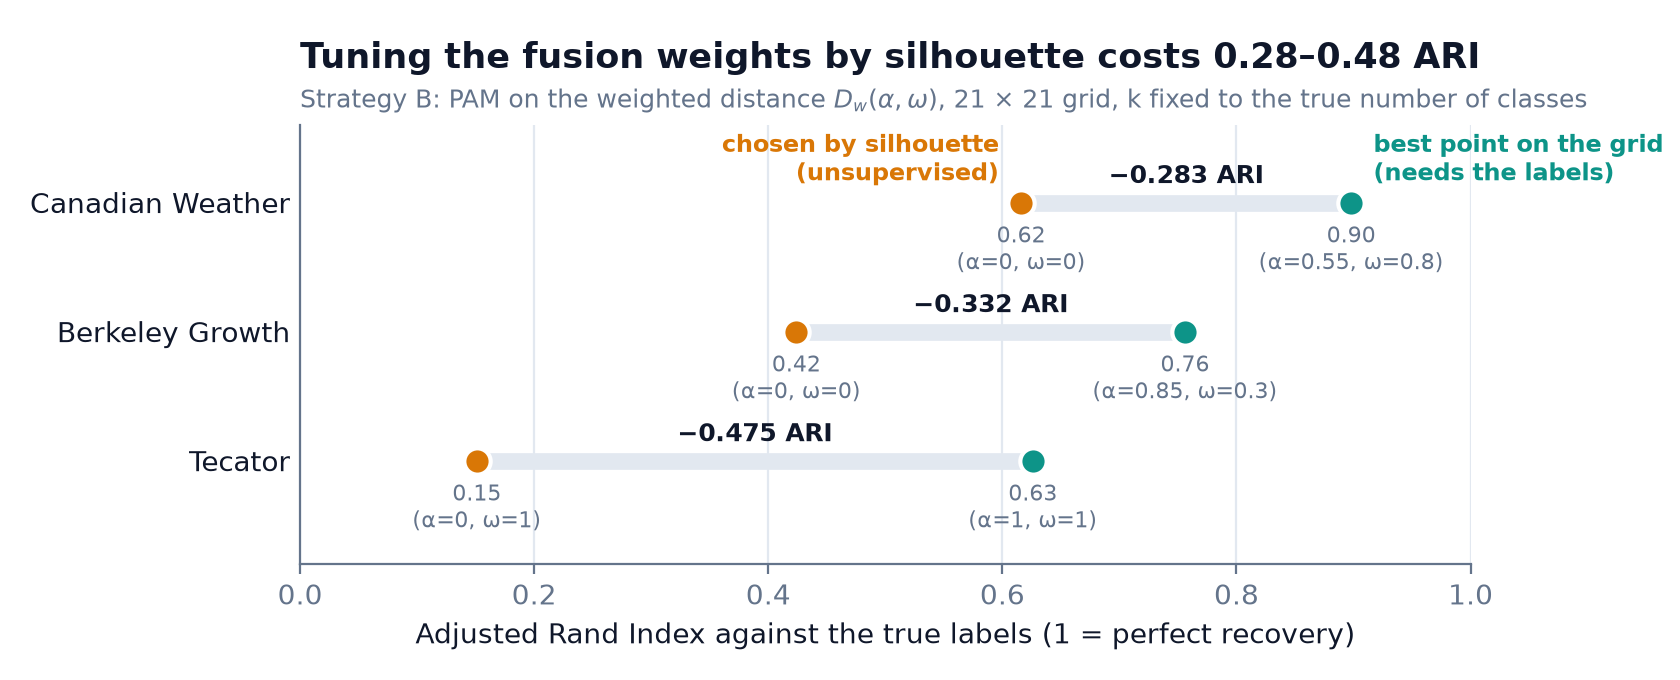
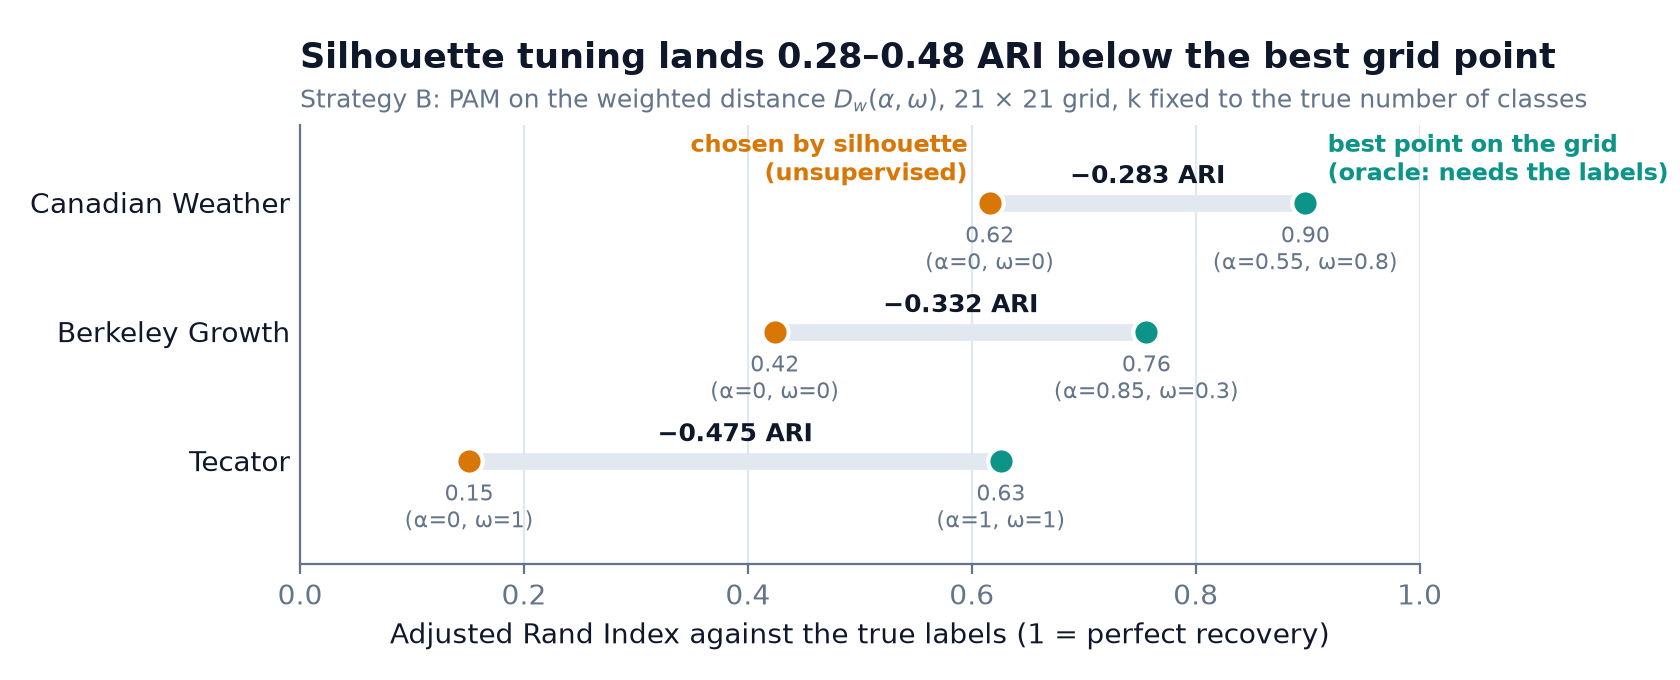
docs: state covariate leakage on all datasets, label the grid best as an oracle
Canadian Weather covariates include station coordinates, a proxy for the
climate-region label. The best-on-grid ARI is now described as a label-based
upper bound, silhouettes across distances as not comparable, and the
simulated instability design (6x6, B=60) as such. The untranslated grid
heatmap is dropped from the README since its grid values are not committed.

diff --git a/scripts/readme_figures.py b/scripts/readme_figures.py
@@ -247,7 +247,7 @@ def fig_hero(paradox: pd.DataFrame, path: Path) -> None:
     ax.text(
         0.0,
         1.13,
-        "Tuning the fusion weights by silhouette costs 0.28–0.48 ARI",
+        "Silhouette tuning lands 0.28–0.48 ARI below the best grid point",
         transform=ax.transAxes,
         fontsize=12.5,
         fontweight="bold",
@@ -264,7 +264,7 @@ def fig_hero(paradox: pd.DataFrame, path: Path) -> None:
     top = order.iloc[-1]
     for x, label, color, ha in (
         (top.sil_ari, "chosen by silhouette\n(unsupervised)", AMBER, "right"),
-        (top.best_ari, "best point on the grid\n(needs the labels)", TEAL, "left"),
+        (top.best_ari, "best point on the grid\n(oracle: needs the labels)", TEAL, "left"),
     ):
         ax.annotate(
             label,

diff --git a/README.md b/README.md
@@ -1,29 +1,29 @@
 # functional-data-clustering
 
 When every observation is a **curve plus a vector of covariates**, how should the two be fused
-to find clusters — and can the fusion be tuned without labels? Four fusion strategies against
-single-block baselines, on three public datasets and 200 simulated runs, with an honest answer:
-the geometry matters less than the tuning criterion, and silhouette is the wrong one.
+to find clusters, and can the fusion be tuned without labels? Four fusion strategies against
+single-block baselines, on three public datasets and 200 simulated runs, show that the tuning
+criterion matters more than the geometry, and that silhouette is the wrong one.
 
 [![ci](https://github.com/Pchambet/functional-data-clustering/actions/workflows/ci.yml/badge.svg)](https://github.com/Pchambet/functional-data-clustering/actions/workflows/ci.yml)
 ![R](https://img.shields.io/badge/R-4.x-276DC3)
 [![License: MIT](https://img.shields.io/badge/license-MIT-blue)](LICENSE)
-[![Thesis (PDF)](https://img.shields.io/badge/thesis-PDF%2C%2018%20pages-0d9488)](docs/rapport_stage.pdf)
+[![Report (PDF, French, 18 pages)](https://img.shields.io/badge/report-PDF%2C%20French%2C%2018%20pages-0d9488)](docs/rapport_stage.pdf)
 
 *Version française : [README.fr.md](README.fr.md).*
 
-![Silhouette-tuned versus best achievable ARI on three labelled datasets](docs/figures/hero_silhouette_gap.png)
+![Silhouette-tuned versus best-on-grid (oracle) ARI on three labelled datasets](docs/figures/hero_silhouette_gap.png)
 
 ## TL;DR
 
 - **Silhouette tuning is the bottleneck.** Choosing the curve/covariate weights (α, ω) of a
   weighted distance by silhouette lands on a single-modality corner on all three real datasets
-  and recovers far less of the true structure than the same grid allows:
+  and scores far below the best point of the same grid (an oracle that needs the labels):
   ARI 0.616 vs 0.898 (Canadian Weather), 0.424 vs 0.756 (Berkeley Growth),
   0.151 vs 0.626 (Tecator).
-- **No fusion geometry wins everywhere.** On real data the best ARI comes from the simplest
-  fusion, FPCA scores + covariates with k-means (0.748 Canadian Weather, 0.682 Berkeley Growth),
-  or from the covariates alone (0.546 Tecator).
+- **No fusion geometry wins everywhere.** On real data the best ARI among methods tuned without
+  labels comes from the simplest fusion, FPCA scores + covariates with k-means (0.748 Canadian
+  Weather, 0.682 Berkeley Growth), or from the covariates alone (0.546 Tecator).
 - **Simulation tells the same story** (4 scenarios × 50 seeds, n = 300, k = 3). A product of
   Gaussian kernels has the best overall mean ARI (0.651) and wins while the curves separate the
   classes (0.938 and 0.887 in S1–S2); when the curve signal is halved, FPCA + k-means wins S3
@@ -34,7 +34,8 @@ the geometry matters less than the tuning criterion, and silhouette is the wrong
   on real data.
 - **Bootstrap instability does not rescue k either.** `fpc::nselectboot` returns the true number
   of classes in 1 of 441 grid points on Canadian Weather and 4 of 441 on Tecator
-  (276 of 441 on Berkeley Growth, where k = 2).
+  (276 of 441 on Berkeley Growth, where k = 2, but k = 2 is also its most frequent answer on
+  the other two datasets: 223 of 441 on Canadian Weather, 382 of 441 on Tecator).
 
 ## Why it matters
 
@@ -51,7 +52,7 @@ blobs over the real structure.
 flowchart LR
   X["Curve X(t)"] --> S["B-spline smoothing<br/>λ by GCV"] --> F["FPCA<br/>95 % variance"]
   Z["Covariates Z"] --> N["Standardise"]
-  F --> G["Six fusion geometries"]
+  F --> G["Single-block baselines<br/>+ 4 fusions"]
   N --> G
   G --> C["PAM / k-means<br/>k = true number of classes"]
   C --> E["Silhouette: used for tuning<br/>ARI: used for evaluation only"]
@@ -72,14 +73,18 @@ flowchart LR
    cross-covariance block $V_{yx}$), curves reconstructed, then $D_K$.
 3. **Protocol.** Hyperparameters (α, ω) are chosen by mean silhouette on a 21 × 21 grid; the
    labels are used **only** to score the final partition with the Adjusted Rand Index. The
-   "best on grid" points in the hero figure are a counterfactual that needs the labels.
+   "best on grid" points in the hero figure are an oracle that needs the labels: the maximum ARI
+   over 441 configurations, which is an optimistic upper bound (on 35 stations, part of that
+   maximum is selection on noise).
 4. **Choosing k.** Separately, bootstrap instability (Fang & Wang, 2012) is mapped over the
-   same (α, ω) grid with B = 150 resamples and k ∈ {2, …, 6}.
+   same (α, ω) grid with B = 150 resamples and k ∈ {2, …, 6} (simulated data: a coarser
+   6 × 6 grid with B = 60).
 
 ## Results
 
 **Real data** — ARI against the true labels (silhouette in brackets), k fixed to the number of
-classes. Best ARI per dataset in bold.
+classes. Best ARI per dataset in bold. The derivative baseline $D_1$ is reported only in
+simulation; on real data it is the (α = 1, ω = 1) corner of B's grid.
 
 | Method | Canadian Weather (n = 35, k = 4) | Berkeley Growth (n = 93, k = 2) | Tecator (n = 215, k = 3) |
 |---|---|---|---|
@@ -102,12 +107,6 @@ Takeaway: the ranking depends on where the signal lives. Silhouette-tuned B (amb
 to a pure curve-distance corner (ω = 1, α ∈ {0, 1}) in every S1–S2 run and in 80 % of S3–S4
 runs, which is right in S1–S2 (0.873) and wrong once the covariates carry the signal (0.239 in S3).
 
-**The paradox on one dataset** — silhouette (left) and ARI (right) over the (α, ω) grid on
-Canadian Weather. The silhouette peaks at the covariates-only corner (×); the ARI plateau is
-in the mixed region.
-
-![Silhouette and ARI over the alpha-omega grid, Canadian Weather](figures/canadian_weather/fig05_gridsearch_2D.png)
-
 **Choosing k without labels** — share of the (α, ω) grid where `nselectboot` selects the true k.
 
 | Data | True k | Grid | True k selected |
@@ -115,7 +114,7 @@ in the mixed region.
 | Canadian Weather | 4 | 21 × 21, B = 150 | 1 / 441 |
 | Berkeley Growth | 2 | 21 × 21, B = 150 | 276 / 441 |
 | Tecator | 3 | 21 × 21, B = 150 | 4 / 441 |
-| Simulated S1 / S2 / S3 / S4 (seed 1) | 3 | 6 × 6, fast mode | 33 / 26 / 3 / 0 of 36 |
+| Simulated S1 / S2 / S3 / S4 (seed 1) | 3 | 6 × 6, B = 60 (fast mode) | 33 / 26 / 3 / 0 of 36 |
 
 Takeaway: on real data instability mostly picks k = 2 or the largest k tried (6); it finds the
 true k = 3 only when the simulated curves carry a strong signal.
@@ -133,10 +132,17 @@ ship with those packages, so there is nothing to download.
 make setup      # install / check packages, write docs/session_info.txt
 make pipeline   # three real datasets: figures/<dataset>/ and docs/exports/*.csv
 make exp03      # simulated benchmark, 4 scenarios x 50 seeds (long)
-make exp01      # bootstrap instability, 21 x 21 grid x B = 150 (long)
+make exp01      # bootstrap instability on the real datasets, 21 x 21 grid x B = 150 (long)
+make exp01-sim  # same on simulated S1-S4, seed 1, fast mode: 6 x 6 grid x B = 60
 make tables     # regenerate docs/generated/*.tex from the result CSVs
-make report     # compile the thesis and the stability report (LaTeX, latexmk)
+make report     # compile the project report and the stability report (LaTeX, latexmk)
 ```
+
+`make exp01-sim` reproduces the committed simulated rows of the instability table (the script
+estimates 15 to 25 minutes). The full
+simulated design (21 × 21, B = 150, several hours) is
+`Rscript experiments/01_instabilite/run_simulated_instabilite_only.R --full`; it overwrites
+`experiments/01_instabilite/results_simulated/` with a different design.
 
 The README figures and numbers are rebuilt from the committed CSVs without R
 (Python 3.12 via [uv](https://docs.astral.sh/uv/), a few seconds):
@@ -163,8 +169,9 @@ experiments/
   01_instabilite/         nselectboot over the (α, ω) grid, real and simulated data
   03_simulated_hybride/   simulated benchmark: protocol, results (CSV), detailed report
 scripts/                  LaTeX table generators (R) and README figures (Python)
-docs/                     thesis (rapport_stage.tex/.pdf), slides, generated tables, references
-figures/<dataset>/        figures written by the pipeline
+docs/                     project report (rapport_stage.tex/.pdf), slides, generated tables, references
+figures/<dataset>/        figures written by the pipeline (French labels; fig05 maps
+                          silhouette and ARI over B's (α, ω) grid)
 ```
 
 ## Methodology notes and limitations
@@ -175,18 +182,27 @@ figures/<dataset>/        figures written by the pipeline
 - **Small real datasets.** Canadian Weather has 35 stations, so a single misassigned station
   moves the ARI noticeably. The real-data table is one deterministic run per method, without
   resampling intervals.
-- **Covariates are not always independent of the label or of the curve.** On Tecator the
-  label is a binned fat content and the covariates are water and protein, which are
-  chemically tied to fat; this explains why the covariates alone win. On Berkeley Growth both
-  covariates (final height, total growth) are computed from the curve itself.
+- **On all three real datasets the covariates are tied to the label or to the curve.** On
+  Canadian Weather the label is a geographic climate region and two of the three covariates
+  are the station's latitude and longitude, so the covariates alone carry much of the label
+  (ARI 0.616 for $D_s$). On Tecator the label is a binned fat content and the covariates are
+  water and protein, which are chemically tied to fat; this explains why the covariates alone
+  win. On Berkeley Growth both covariates (final height, total growth) are computed from the
+  curve itself.
+- **Silhouettes from different distances are not on a common scale.** The silhouette of each
+  method is computed in its own space ($D_0$, $D_s$, $D_w$, $D_K$, the k-means feature space
+  of A), so comparing them across methods, or across corners of B's grid, is not comparing like
+  with like. This is one mechanism behind the paradox: single-block corners can simply have a
+  more favourable silhouette scale.
 - **Simulation is one generative model.** Conclusions on S1–S4 are conditional on the Fourier
   basis and the effect sizes of `Cas2_deriv`. The simulated `nselectboot` run uses a reduced
-  6 × 6 grid and a single seed.
+  6 × 6 grid, B = 60 and a single seed.
 - **Kernel bandwidths** use the median heuristic and are not tuned; a different choice could
   change the ranking of C and HFV.
-- **Reproducibility.** Package versions are not pinned (no `renv.lock`); `make setup` records
-  `sessionInfo()` in `docs/session_info.txt`. The thesis, the slides and code comments are in
-  French; the slides need the LaTeX `beamer` class.
+- **Reproducibility.** Package versions are not pinned (no `renv.lock`), and the R and package
+  versions behind the committed results were not recorded. `make setup` writes `sessionInfo()`
+  to `docs/session_info.txt`, which is meant to be committed with the next run. The report,
+  the slides and code comments are in French; the slides need the LaTeX `beamer` class.
 
 ## References
 
@@ -205,7 +221,7 @@ Full list with DOIs and dataset sources: [docs/biblio/README.md](docs/biblio/REA
 
 M2 TRIED research project ("projet long"), CNAM, CEDRIC lab (MSDMA team), 2026. Subject
 proposed and supervised by V. Audigier, F. Bouhadjera and N. Niang. The full write-up is the
-thesis in [`docs/rapport_stage.pdf`](docs/rapport_stage.pdf) (French).
+18-page project report in [`docs/rapport_stage.pdf`](docs/rapport_stage.pdf) (French).
 
 ---
 

diff --git a/README.fr.md b/README.fr.md
@@ -6,21 +6,22 @@ Classification non supervisée de données mixtes : chaque individu est décrit 
 **courbe** (partie fonctionnelle, dans $L^2$) et par un **vecteur de covariables** (dans
 $\mathbb{R}^p$). Comment fusionner les deux pour former des groupes, et peut-on régler cette
 fusion sans étiquettes ? Projet long du Master TRIED, CNAM (laboratoire CEDRIC, équipe MSDMA),
-2026, proposé et encadré par V. Audigier, F. Bouhadjera et N. Niang. Le mémoire complet :
+2026, proposé et encadré par V. Audigier, F. Bouhadjera et N. Niang. Le rapport complet (18 pages) :
 [`docs/rapport_stage.pdf`](docs/rapport_stage.pdf).
 
-![Silhouette contre meilleur ARI atteignable sur trois jeux étiquetés](docs/figures/hero_silhouette_gap.png)
+![Silhouette contre meilleur ARI de la grille (oracle) sur trois jeux étiquetés](docs/figures/hero_silhouette_gap.png)
 
 ## En bref
 
 - **Le réglage par silhouette est le verrou.** Choisir les poids courbe/covariables (α, ω) de la
   distance pondérée $D_w$ par la silhouette mène, sur les trois jeux réels, à un coin
-  mono-modalité et à un ARI bien inférieur à ce que la même grille permet :
+  mono-modalité et à un ARI bien inférieur au meilleur point de la même grille (un oracle qui
+  exige les étiquettes) :
   0,616 contre 0,898 (Canadian Weather), 0,424 contre 0,756 (Berkeley Growth),
   0,151 contre 0,626 (Tecator).
-- **Aucune géométrie ne domine partout.** Sur données réelles, le meilleur ARI vient de la fusion
-  la plus simple, scores FPCA + covariables puis k-means (0,748 et 0,682), ou des seules
-  covariables sur Tecator (0,546).
+- **Aucune géométrie ne domine partout.** Sur données réelles, le meilleur ARI parmi les méthodes
+  réglées sans étiquettes vient de la fusion la plus simple, scores FPCA + covariables puis
+  k-means (0,748 et 0,682), ou des seules covariables sur Tecator (0,546).
 - **Simulation (4 scénarios × 50 graines, n = 300, k = 3).** Le produit de noyaux gaussiens
   obtient le meilleur ARI moyen global (0,651) et gagne tant que les courbes séparent les classes
   (0,938 et 0,887 en S1–S2) ; quand le signal fonctionnel est divisé par deux, FPCA + k-means
@@ -28,7 +29,8 @@ fusion sans étiquettes ? Projet long du Master TRIED, CNAM (laboratoire CEDRIC,
 - **L'ACP hybride (HFV) ne bat pas le produit de noyaux simple** : elle est derrière lui dans
   62 % à 78 % des tirages appariés selon le scénario, et à égalité (à 0,003 près) sur données réelles.
 - **L'instabilité bootstrap (Fang & Wang) ne retrouve pas k** : le vrai nombre de classes est
-  choisi en 1 point sur 441 de la grille pour Canadian Weather et 4 sur 441 pour Tecator.
+  choisi en 1 point sur 441 de la grille pour Canadian Weather et 4 sur 441 pour Tecator ;
+  k = 2 est sa réponse la plus fréquente sur les trois jeux réels.
 
 ## Méthodes comparées
 
@@ -53,8 +55,9 @@ fournies par ces paquets).
 ```bash
 make setup && make pipeline   # trois jeux réels
 make exp03                    # benchmark simulé (long)
-make exp01                    # instabilité bootstrap (long)
-make tables && make report    # tableaux LaTeX et mémoire
+make exp01                    # instabilité bootstrap, jeux réels (long)
+make exp01-sim                # idem sur S1–S4, mode rapide 6 × 6, B = 60
+make tables && make report    # tableaux LaTeX et rapport
 make figures && make check    # figures et chiffres du README (Python, uv, sans R)
 ```
 
@@ -63,9 +66,19 @@ make figures && make check    # figures et chiffres du README (Python, uv, sans 
 - k est fixé au vrai nombre de classes dans toutes les comparaisons de méthodes.
 - Jeux réels de petite taille (35 stations pour Canadian Weather) ; une seule exécution par
   méthode, sans intervalle de rééchantillonnage.
-- Sur Tecator, l'étiquette (taux de gras discrétisé) est chimiquement liée aux covariables
-  (eau, protéines) ; sur Growth, les covariables sont calculées à partir de la courbe.
-- Les conclusions simulées dépendent du générateur `Cas2_deriv`.
-- Versions des paquets non figées (pas de `renv.lock`) ; `make setup` enregistre `sessionInfo()`.
+- Sur les trois jeux réels, les covariables sont liées à l'étiquette ou à la courbe. Sur
+  Canadian Weather, l'étiquette est une région géographique et deux des trois covariables sont
+  la latitude et la longitude de la station : les covariables seules portent une grande part de
+  l'étiquette. Sur Tecator, l'étiquette (taux de gras discrétisé) est chimiquement liée aux
+  covariables (eau, protéines) ; sur Growth, les covariables sont calculées à partir de la courbe.
+- Les silhouettes calculées dans des espaces différents ($D_0$, $D_s$, $D_w$, $D_K$, espace de
+  k-means pour A) ne sont pas sur une échelle commune ; c'est l'un des mécanismes du paradoxe.
+- Le « meilleur point de la grille » est un oracle : le maximum de l'ARI sur 441 configurations,
+  donc une borne supérieure optimiste.
+- Les conclusions simulées dépendent du générateur `Cas2_deriv` ; l'instabilité simulée utilise
+  une grille 6 × 6, B = 60 et une seule graine.
+- Versions des paquets non figées (pas de `renv.lock`), et les versions de R et des paquets
+  derrière les résultats versionnés n'ont pas été enregistrées ; `make setup` écrit
+  `sessionInfo()` dans `docs/session_info.txt`, à versionner au prochain lancement.
 
 Références et sources des données : [docs/biblio/README.md](docs/biblio/README.md).
